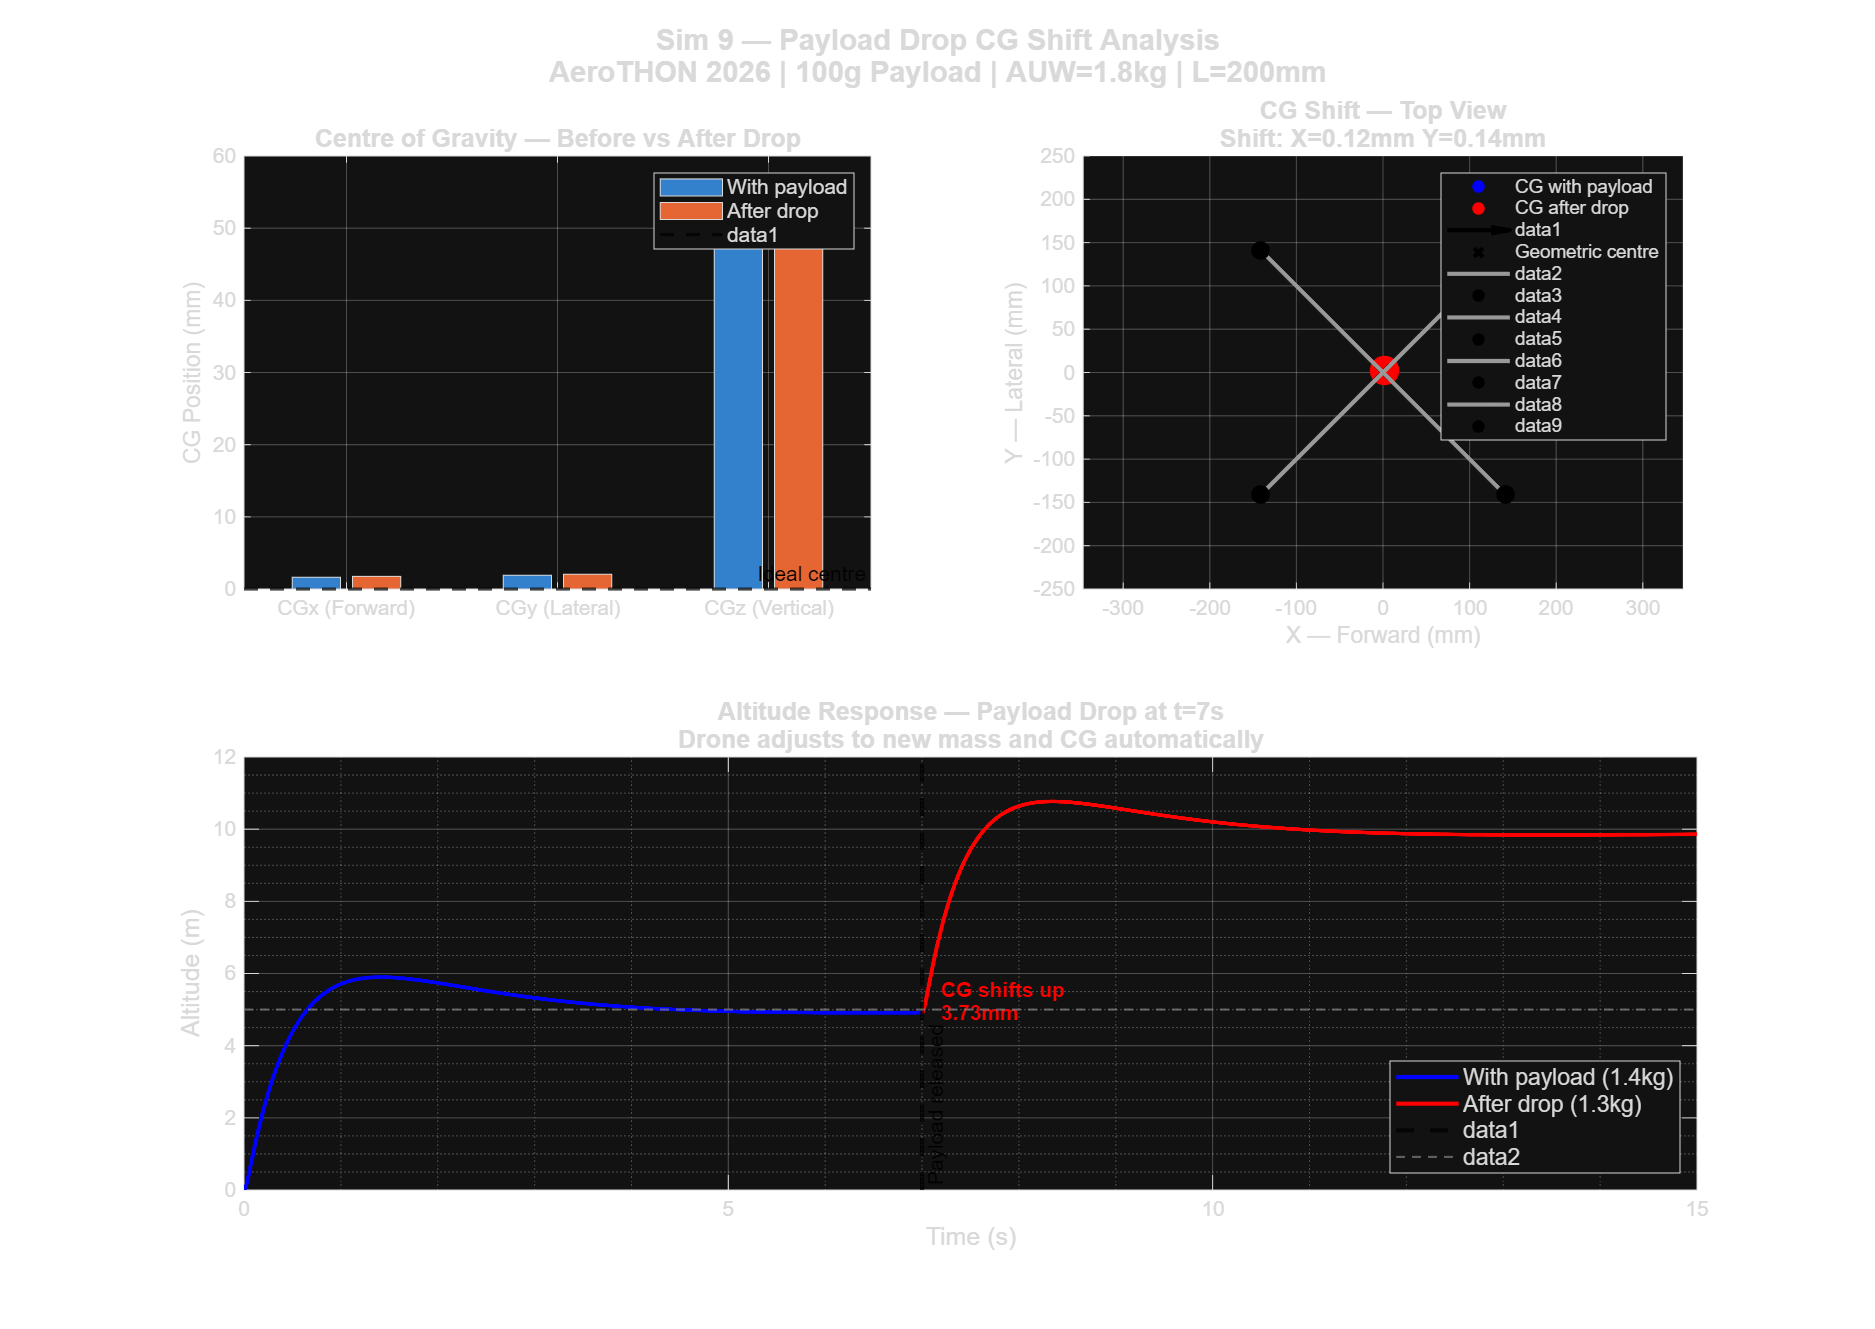
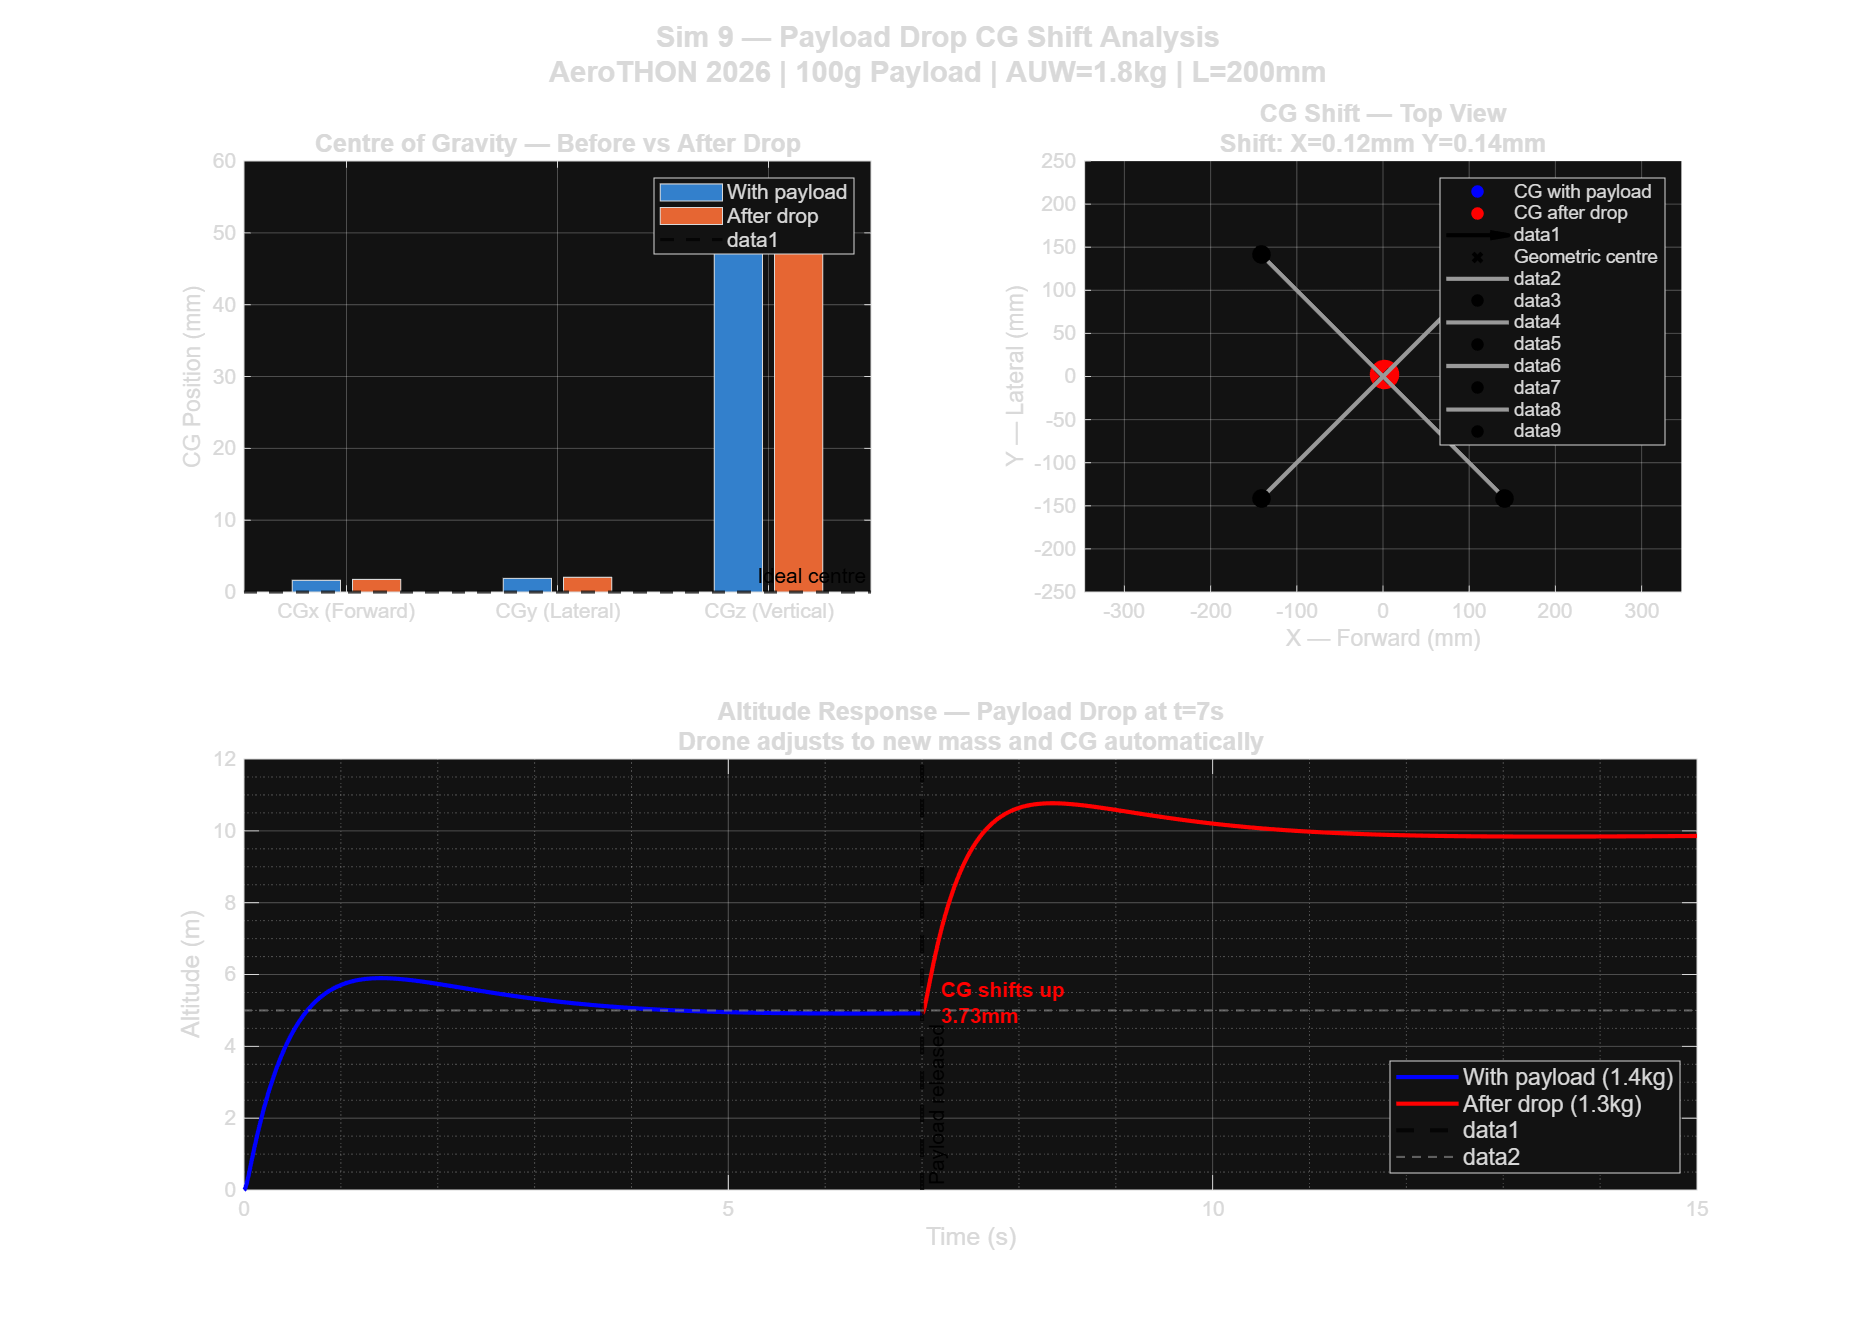
Added all 10 simulations

diff --git a/src/sim10_thrust.m b/src/sim10_thrust.m
@@ -1,0 +1,130 @@
+drone_params;
+
+savepath = 'C:\Users\tarun\Desktop\AeroTHON-2026-Challengers-Simulations\src\';
+
+throttle_pct = [50,  55,  60,  65,  75,  85,  100];
+thrust_g     = [435, 527, 608, 702, 888, 1076, 1293];
+current_A    = [3.5, 4.6, 5.6, 6.8, 9.5, 12.3, 16.2];
+power_W      = [56,  73.6,89.6,108.8,152,196.8,259.2];
+rpm_data     = [6015,6620,7113,7563,8545,9442,10464];
+efficiency   = [7.77,7.16,6.79,6.45,5.84,5.47,4.99];
+
+hover_thrust_per_motor = (m*9.81/4)/9.81*1000;
+hover_throttle = interp1(thrust_g,throttle_pct,hover_thrust_per_motor,'linear');
+hover_current  = interp1(thrust_g,current_A,hover_thrust_per_motor,'linear');
+hover_power    = interp1(thrust_g,power_W,hover_thrust_per_motor,'linear');
+hover_rpm      = interp1(thrust_g,rpm_data,hover_thrust_per_motor,'linear');
+hover_eff      = interp1(thrust_g,efficiency,hover_thrust_per_motor,'linear');
+
+fprintf('\n+-------- SIM 10 RESULTS --------+\n')
+fprintf('| Motor: T-Motor AIR2216 KV880   |\n')
+fprintf('| Prop:  T1045 | Battery: 4S 16V |\n')
+fprintf('+--------------------------------+\n')
+fprintf('| Hover thrust/motor: %.0fg      |\n', hover_thrust_per_motor)
+fprintf('| Hover throttle:     %.0f%%      |\n', hover_throttle)
+fprintf('| Hover current:      %.1fA      |\n', hover_current)
+fprintf('| Hover power/motor:  %.1fW      |\n', hover_power)
+fprintf('| Hover RPM:          %.0f       |\n', hover_rpm)
+fprintf('| Hover efficiency:   %.2fg/W    |\n', hover_eff)
+fprintf('| Total hover power:  %.0fW      |\n', 4*hover_power)
+fprintf('| Max thrust (4x):    %.0fg      |\n', 4*1293)
+fprintf('| T/W ratio:          %.2f:1     |\n', 4*1293/(m*1000))
+fprintf('+--------------------------------+\n')
+
+t_smooth = linspace(50,100,200);
+p_thrust = polyfit(throttle_pct,thrust_g,2);
+p_power  = polyfit(throttle_pct,power_W,2);
+p_eff    = polyfit(throttle_pct,efficiency,2);
+
+thrust_smooth = polyval(p_thrust,t_smooth);
+power_smooth  = polyval(p_power,t_smooth);
+eff_smooth    = polyval(p_eff,t_smooth);
+
+f10=figure('Name','Sim 10 Thrust Curve',...
+           'Color','white','Position',[50 50 1200 850]);
+
+%% Panel 1 — Thrust vs Throttle
+subplot(2,2,1);
+plot(t_smooth, thrust_smooth,'b','LineWidth',2.5,...
+     'DisplayName','Fitted curve'); hold on;
+scatter(throttle_pct,thrust_g,100,'r','filled',...
+        'DisplayName','Datasheet points');
+scatter(hover_throttle,hover_thrust_per_motor,200,'g','filled','p',...
+        'DisplayName',sprintf('Hover (%.0f%%,%.0fg)',...
+        hover_throttle,hover_thrust_per_motor));
+xline(hover_throttle,'--g','LineWidth',1.5);
+yline(hover_thrust_per_motor,'--g','LineWidth',1.5);
+xlabel('Throttle (%)','FontSize',11);
+ylabel('Thrust per Motor (g)','FontSize',11);
+title('Thrust vs Throttle','FontSize',12);
+legend('FontSize',9,'Location','northwest');
+text(hover_throttle+1,hover_thrust_per_motor+30,...
+     sprintf('Hover:\n%.0f%% | %.0fg',...
+     hover_throttle,hover_thrust_per_motor),...
+     'FontSize',10,'Color',[0 0.5 0],'FontWeight','bold');
+grid on; grid minor;
+
+%% Panel 2 — Power vs Throttle
+subplot(2,2,2);
+plot(t_smooth,power_smooth,'r','LineWidth',2.5); hold on;
+scatter(throttle_pct,power_W,100,'r','filled');
+scatter(hover_throttle,hover_power,200,'g','filled','p');
+xline(hover_throttle,'--g','LineWidth',1.5);
+yline(hover_power,'--g','LineWidth',1.5);
+xlabel('Throttle (%)','FontSize',11);
+ylabel('Power per Motor (W)','FontSize',11);
+title('Power vs Throttle','FontSize',12);
+text(hover_throttle+1,hover_power+5,...
+     sprintf('Hover:\n%.0f%% | %.0fW',...
+     hover_throttle,hover_power),...
+     'FontSize',10,'Color',[0 0.5 0],'FontWeight','bold');
+grid on; grid minor;
+
+%% Panel 3 — Efficiency vs Throttle
+%% FIXED: use 'g' string not RGB array in plot()
+subplot(2,2,3);
+plot(t_smooth,eff_smooth,'g','LineWidth',2.5); hold on;
+scatter(throttle_pct,efficiency,100,'g','filled');
+scatter(hover_throttle,hover_eff,200,'g','filled','p');
+xline(hover_throttle,'--g','LineWidth',1.5);
+[~,max_idx] = max(eff_smooth);
+xline(t_smooth(max_idx),'--r',...
+      sprintf('Best eff %.0f%%',t_smooth(max_idx)),...
+      'LineWidth',1.5,'LabelVerticalAlignment','bottom');
+xlabel('Throttle (%)','FontSize',11);
+ylabel('Efficiency (g/W)','FontSize',11);
+title('Motor Efficiency vs Throttle','FontSize',12);
+text(hover_throttle+1,hover_eff+0.1,...
+     sprintf('Hover:\n%.2fg/W',hover_eff),...
+     'FontSize',10,'Color',[0 0.5 0],'FontWeight','bold');
+grid on; grid minor;
+
+%% Panel 4 — Total thrust vs AUW
+subplot(2,2,4);
+total_thrust  = thrust_g*4;
+total_smooth4 = thrust_smooth*4;
+plot(t_smooth,total_smooth4,'b','LineWidth',2.5,...
+     'DisplayName','Total thrust 4 motors'); hold on;
+scatter(throttle_pct,total_thrust,100,'b','filled');
+yline(m*1000,'--r',...
+      sprintf('AUW = %.0fg',m*1000),...
+      'LineWidth',2,'LabelHorizontalAlignment','left');
+yline(m*1000*1.5,':r','1.5x safety margin','LineWidth',1.5);
+scatter(hover_throttle,hover_thrust_per_motor*4,...
+        200,'g','filled','p',...
+        'DisplayName',sprintf('Hover %.0f%%',hover_throttle));
+xline(hover_throttle,'--g','LineWidth',1.5);
+xlabel('Throttle (%)','FontSize',11);
+ylabel('Total Thrust 4 Motors (g)','FontSize',11);
+title(sprintf('Total Thrust vs AUW | T/W=%.2f:1 at 100%%',...
+      4*1293/(m*1000)),'FontSize',12);
+legend('FontSize',9,'Location','northwest');
+grid on; grid minor;
+
+sgtitle({'Sim 10 — Motor Thrust Curve Analysis',...
+         'T-Motor AIR2216 KV880 + T1045 | 4S 16V | AUW=1.8kg'},...
+         'FontSize',14,'FontWeight','bold');
+
+saveas(f10,[savepath 'Sim10_ThrustCurve.png']);
+fprintf('\nSaved: Sim10_ThrustCurve.png\n')
+fprintf('\nAll 10 simulations COMPLETE!\n')
